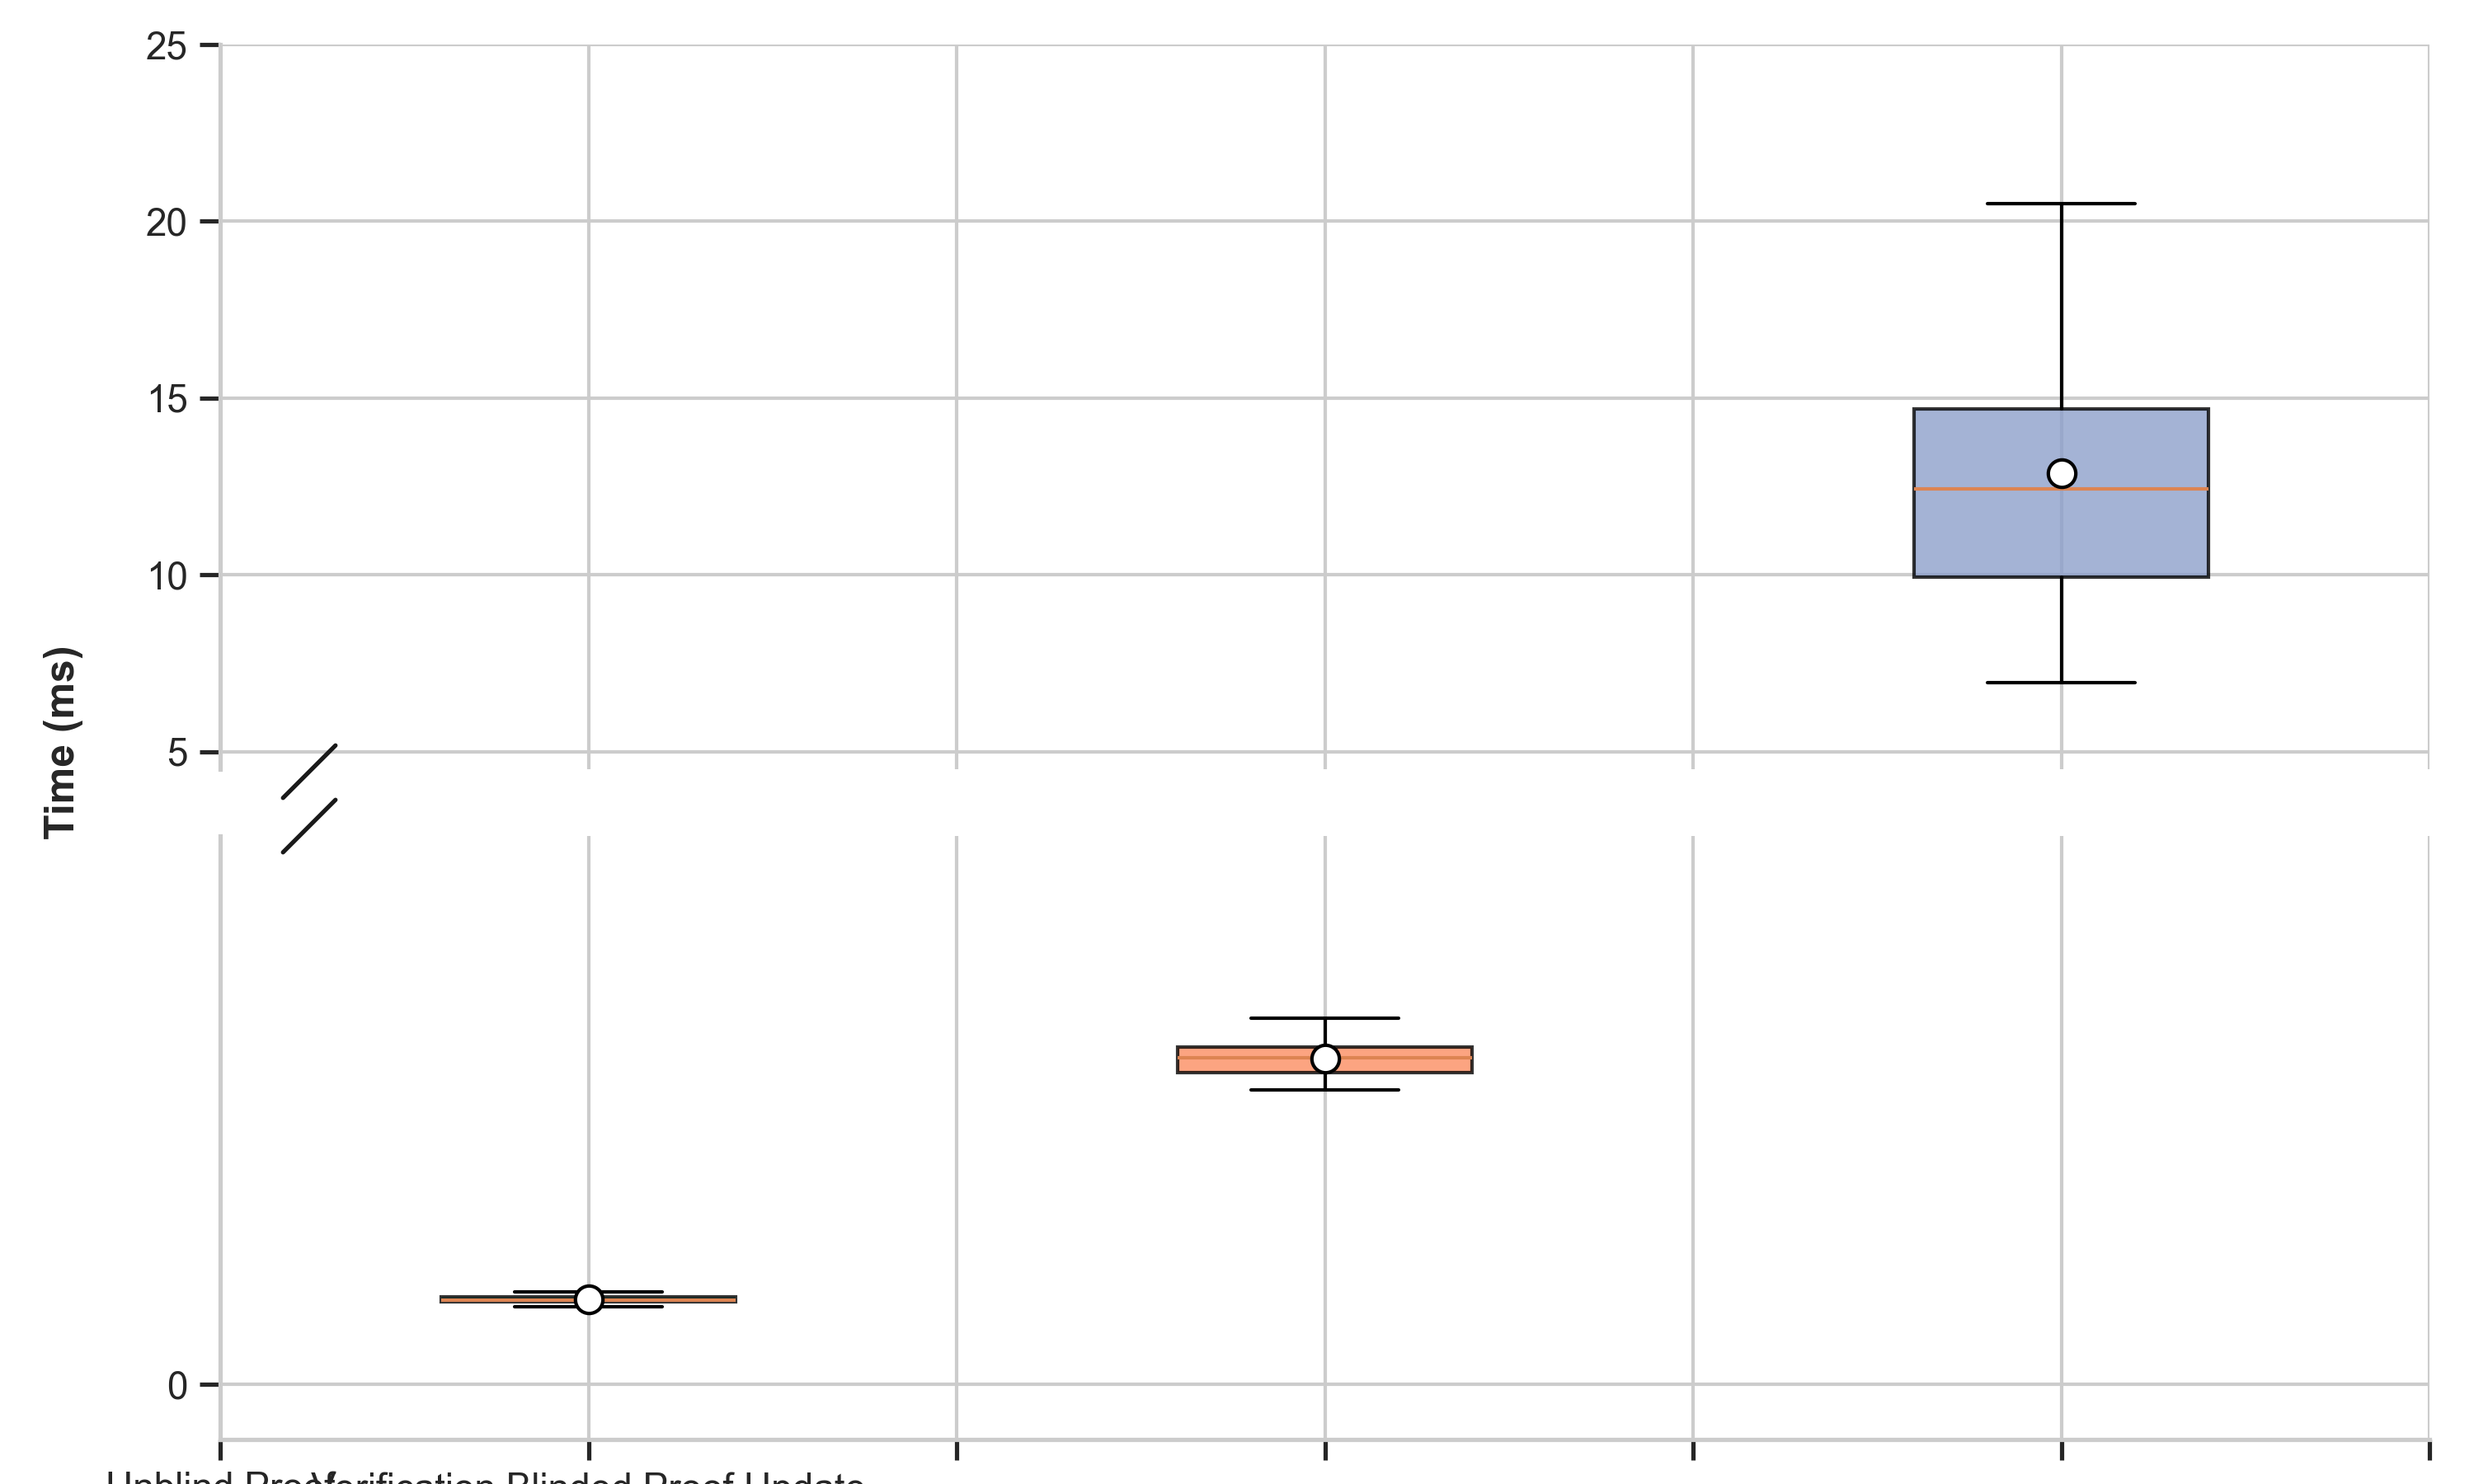
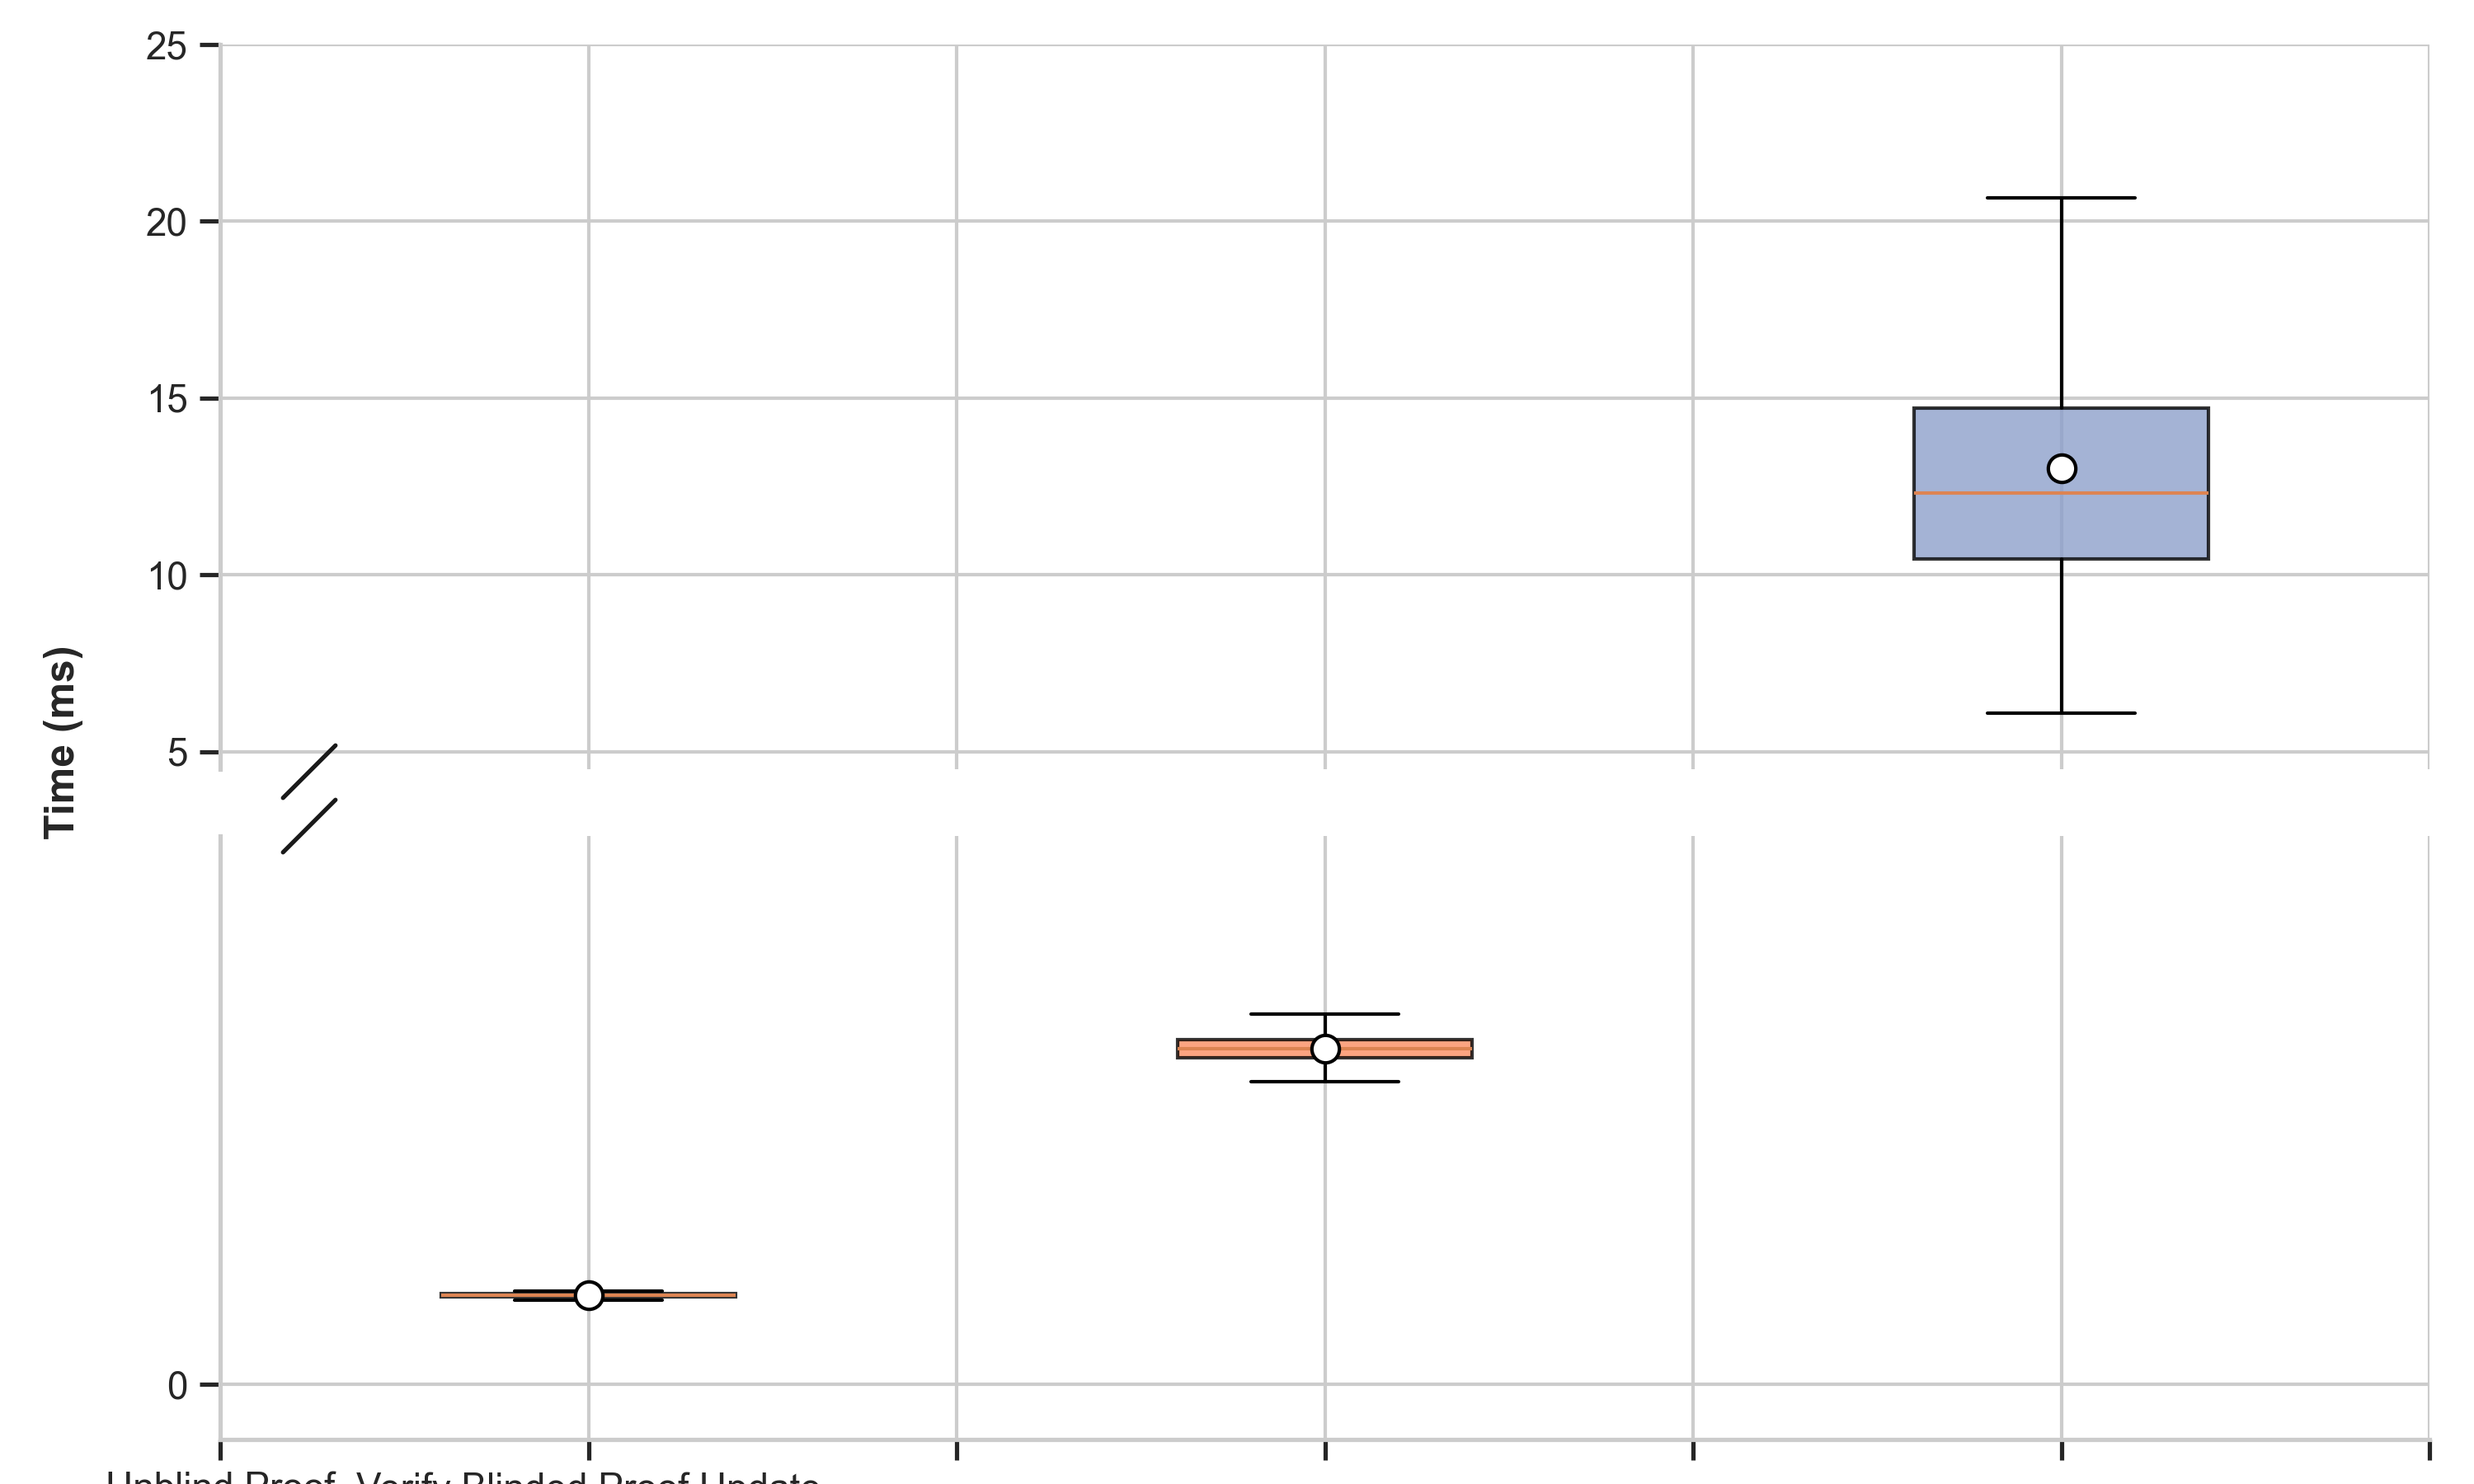
plot for BlindProofUpd for updating mem proofs (RSA)

diff --git a/plot_On_results.py b/plot_On_results.py
@@ -1,0 +1,87 @@
+import os
+import json
+import pandas as pd
+import seaborn as sns
+from brokenaxes import brokenaxes
+import numpy as np
+import matplotlib.pyplot as plt
+
+# Configuration
+
+BASE_DIR = "target/criterion/membership_proofs/blind_proof_upd"
+
+input_size = [10, 200, 400, 600, 800, 1000]
+
+def load_criterion_data(base_dir):
+
+    data_rows = []
+
+    if not os.path.exists(base_dir):
+        print(f"ERROR: Could not find {base_dir}. Did you run 'cargo bench'?")
+        return pd.DataFrame()
+    
+    for folder_name in os.listdir(base_dir):
+        folder_path = os.path.join(base_dir, folder_name)
+
+        if os.path.isdir(folder_path) and folder_name.isdigit():
+            n_elements = int(folder_name)
+
+            est_path = os.path.join(folder_path, "base", "estimates.json")
+
+            if os.path.exists(est_path):
+                with open(est_path, "r") as f:
+                    content = json.load(f)
+
+                    mean_ns = content["mean"]["point_estimate"]
+
+                    mean_s = mean_ns / 1_000_000_000.0
+
+                    data_rows.append({
+                        "Elements": n_elements,
+                        "Time (s)": mean_s
+                    })
+    return pd.DataFrame(data_rows)
+
+
+# Main Execution
+print("Loading 10 samples from Criterion..")
+all_dataframes = []
+
+df = load_criterion_data(BASE_DIR)
+
+if df.empty:
+    print(f"No data found. Check the {BASE_DIR} path")
+    exit()
+
+df = df.sort_values("Elements")
+
+print(f"Loaded {len(df)} data points:")
+print(df)
+
+
+
+# Visualization
+plt.figure(figsize=(10, 6))
+sns.set_theme(style="whitegrid")
+
+
+plt.plot(df["Elements"], df["Time (s)"],
+         marker='o',
+         linestyle='-',
+         linewidth="2.5",
+         markersize=9,
+         color="#2980b9",
+         label="Blind Proof Update")
+
+plt.xlabel("Number of elements", fontsize=12)
+plt.ylabel("Time (seconds)", fontsize=12)
+
+plt.grid(True, linestyle='--', alpha=0.7)
+plt.legend()
+
+output_file = "benches/images/membership_proofs_scaling.png"
+plt.tight_layout()
+plt.savefig(output_file, dpi=300)
+print(f"\nSuccess! Chart saved to: {output_file}")
+
+plt.show()

diff --git a/benches/bench_rsa.rs b/benches/bench_rsa.rs
@@ -127,7 +127,7 @@ fn benchmark_blindproofupd(c: &mut Criterion) {
 
     group.sample_size(10);
 
-    group.measurement_time(Duration::from_secs(150));
+    group.measurement_time(Duration::from_secs(10));
 
     let sizes = [10, 200, 400, 600, 800, 1000];
 
